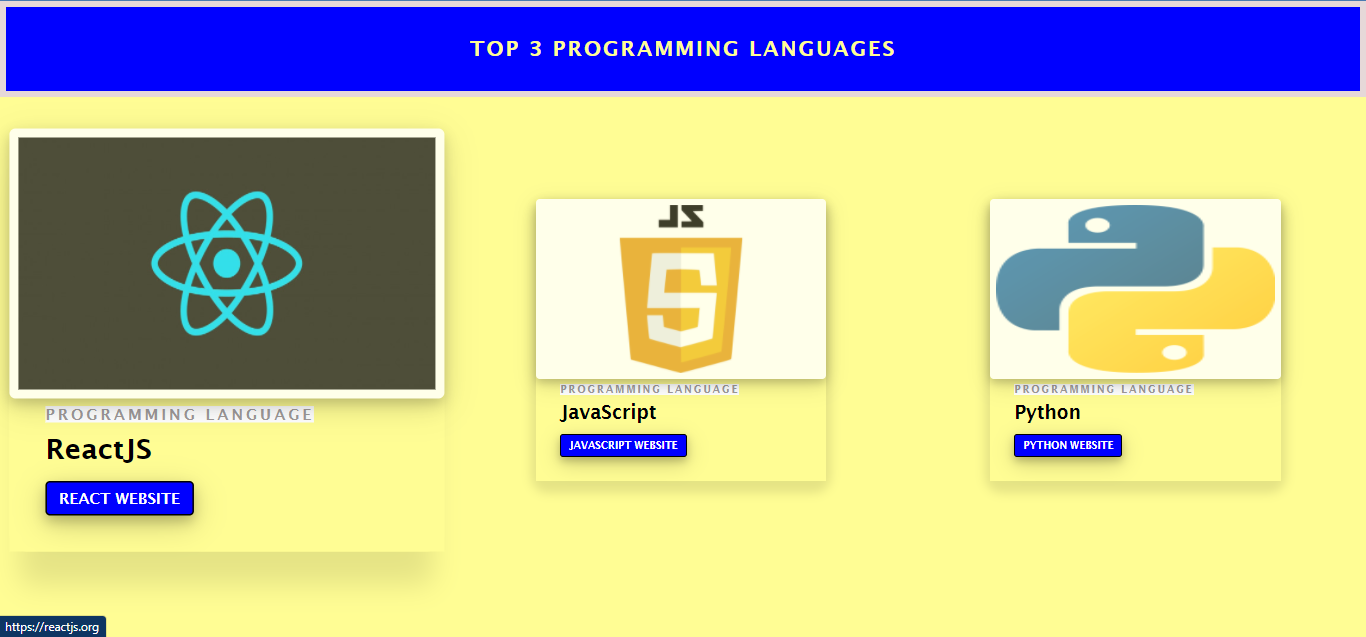
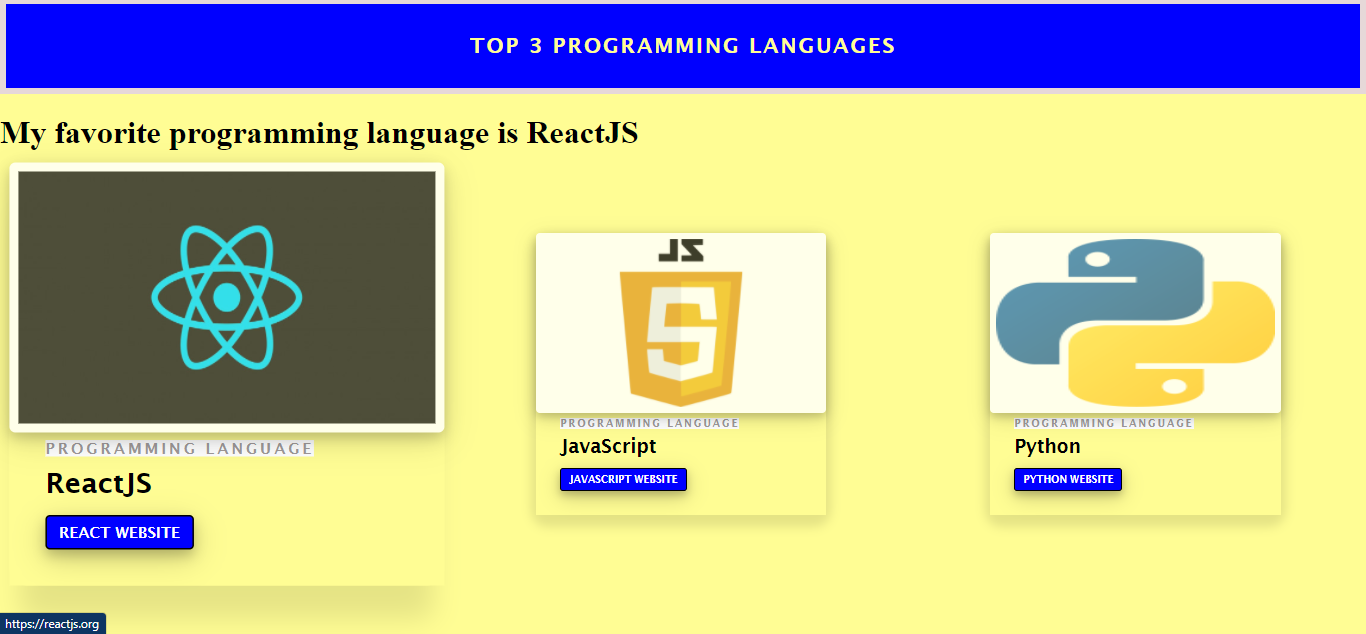
else-if and ternary operator

diff --git a/src/App.jsx b/src/App.jsx
@@ -14,9 +14,25 @@ import Sdata from './Sdata';
 //   );
 // }
 
+const favPL = 'ReactJS';
+const FavoritePL = () =>{
+if(favPL==='ReactJS'){
+    return (<h1>My favorite programming language is {favPL}</h1>);
+}else if(favPL==='JavaScript'){
+    return (<h1>My favorite programming language is {favPL}</h1>);
+}else if(favPL==='Python'){
+    return (<h1>My favorite programming language is {favPL}</h1>);
+}
+else{
+    return (<h1>Invalid</h1>);
+}
+}
+
 const App = ()=>(
   <>
     <h1 className='main_heading'>Top 3 Programming Languages</h1>
+    <FavoritePL/>
+    {/* {(favPL==='ReactJS') ? (<h1>My favorite programming language is {favPL}</h1>) : (<h1>Invalid</h1>)} */}
     {Sdata.map((val, index) =>{
       return(
         <Card 
